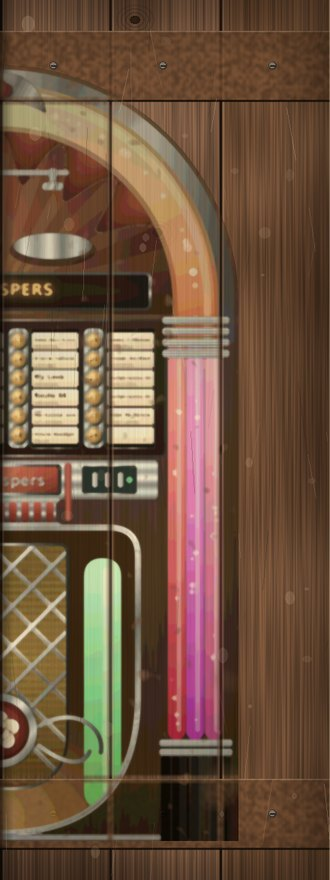
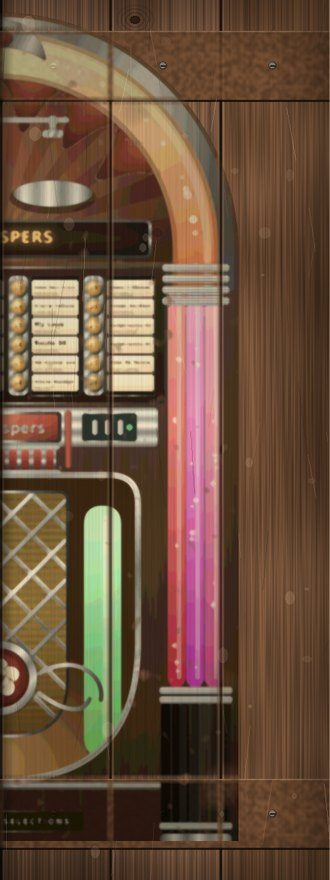
Country- ja leikkihuoneen ovet maalattuna
Kaksi uutta ovea Juntsan referenssikuvien mukaan. Jukeboksin maalaus
saatiin renderöimällä itse laite; näille kahdelle ei ole laitetta vaan
aihe, joten kuva piirretään SVG:nä (make_maalaukset.py) ja rasteroidaan
Chromiumilla läpinäkyvälle taustalle.

- country: kaksi peilikuvapaneelia, kummallakin oma kaari — vasemmalla
  hattu ja kitara, oikealla nauhamikrofoni. Säistynyt käsittely kuten
  fiftiesissä.
- leikkihuone: yksi sommitelma yli parin, sauma halkaisee sydämenmuotoisen
  mansikan. Ovi vie mansikkakyla.fi:hin, biisit eivät tule tänne.
- maalaukselle kaksi käsittelyä: säistynyt ja lakattu. Lastenhuoneen ovi on
  referenssissä hoidettu, joten kuluttava käsittely tekisi siitä surullisen
  — kirkas puu, ehjä maali, lakkaheijastus, ei näkyviä kiinnikkeitä.
- Tulossa-kyltti alas: keskellä se peitti juuri sen aiheen, jonka takia ovi
  maalattiin.
- korjattu: kitaran ääriviivan stroke-width oli scale(100):n sisällä, eli
  700 yksikköä leveä, ja peitti koko nurkkauksen

Claude-Session: https://claude.ai/code/session_0153AvkQwfLdBQDa3EC36AKN

diff --git a/index.html b/index.html
@@ -100,6 +100,8 @@ h1 span{color:var(--amber)}
 .oikea{right:-1px;transform-origin:right center;background-image:var(--oik)}
 .vasen::after{right:6px}
 .oikea::after{left:6px}
+/* leikkihuoneen ovessa on messinkikahvat jo maalattuna */
+.lapset .luukku::after{display:none}
 
 /* avautuminen */
 @media (hover:hover){
@@ -118,15 +120,20 @@ h1 span{color:var(--amber)}
   --oik:url("luukut/jukebox-oikea.jpg");
   --hehku:radial-gradient(130% 95% at 50% 100%,#ffb23a 0%,#c4371f 44%,#2a0e09 100%);
 }
+.country{
+  --vas:url("luukut/country-vasen.jpg");
+  --oik:url("luukut/country-oikea.jpg");
+  --hehku:radial-gradient(130% 95% at 50% 100%,#ffcb6a 0%,#a85a1e 44%,#2a1408 100%);
+}
 .yo{
   --vas:url("luukut/puu-vasen.jpg");
   --oik:url("luukut/puu-oikea.jpg");
   --hehku:radial-gradient(130% 95% at 50% 100%,#ffcf74 0%,#8a4a12 44%,#150b05 100%);
 }
 .lapset{
-  --vas:url("luukut/puu-vasen.jpg");
-  --oik:url("luukut/puu-oikea.jpg");
-  --hehku:radial-gradient(130% 95% at 50% 100%,#ffe9a8 0%,#e8536a 46%,#45101e 100%);
+  --vas:url("luukut/mansikkakyla-vasen.jpg");
+  --oik:url("luukut/mansikkakyla-oikea.jpg");
+  --hehku:radial-gradient(130% 95% at 50% 100%,#fff0c4 0%,#e8536a 46%,#45101e 100%);
 }
 .techno{
   --vas:url("luukut/puu-vasen.jpg");
@@ -135,11 +142,8 @@ h1 span{color:var(--amber)}
 }
 /* tyhjät luukut eivät saa näyttää identtisiltä vierekkäin: eri puulaadut,
    ei värisuodinta — vihertävä sävy saisi laudan näyttämään homeiselta */
-.lapset .vasen,.lapset .oikea{filter:saturate(.74) brightness(1.1)}   /* auringon haalistama */
 .techno .vasen,.techno .oikea{filter:saturate(.34) brightness(.74)}   /* harmaantunut */
 @media (hover:none){
-  .lapset .vasen{filter:saturate(.74) brightness(.86)}
-  .lapset .oikea{filter:saturate(.74) brightness(.97)}
   .techno .vasen{filter:saturate(.34) brightness(.58)}
   .techno .oikea{filter:saturate(.34) brightness(.65)}
 }
@@ -148,7 +152,9 @@ h1 span{color:var(--amber)}
 .huone.kiinni{cursor:default}
 .huone.kiinni .sisus{filter:saturate(.3) brightness(.42)}
 .kyltti{
-  position:absolute;left:50%;top:34%;z-index:3;   /* kahvojen yläpuolelle */
+  /* alas: maalatuissa ovissa kyltti peittäisi keskeltä juuri sen aiheen,
+     jonka takia ovi ylipäätään maalattiin */
+  position:absolute;left:50%;top:76%;z-index:3;
   transform:translate(-50%,-50%) rotate(-5deg);
   padding:7px 14px;border-radius:2px;
   background:#efe0c0;color:#4a2c18;
@@ -187,6 +193,15 @@ footer a{color:#8a7a66}
       <div class="luukut"><span class="luukku vasen"></span><span class="luukku oikea"></span></div>
     </a>
 
+    <div class="huone country kiinni">
+      <div class="sisus">
+        <b>Country</b>
+        <span>Kitara ja nauhamikki<br>soitin rakenteilla</span>
+      </div>
+      <div class="luukut"><span class="luukku vasen"></span><span class="luukku oikea"></span></div>
+      <span class="kyltti">Tulossa</span>
+    </div>
+
     <div class="huone yo kiinni">
       <div class="sisus">
         <b>Yö ja balladit</b>
@@ -196,14 +211,13 @@ footer a{color:#8a7a66}
       <span class="kyltti">Tulossa</span>
     </div>
 
-    <div class="huone lapset kiinni">
+    <a class="huone lapset" href="https://mansikkakyla.fi/" rel="noopener">
       <div class="sisus">
-        <b>Lasten huone</b>
-        <span>Mansikkakylän laulut<br>ja karaoke</span>
+        <b>Leikkihuone</b>
+        <span>Mansikkakylän laulut<br>ja sadut — mansikkakyla.fi</span>
       </div>
       <div class="luukut"><span class="luukku vasen"></span><span class="luukku oikea"></span></div>
-      <span class="kyltti">Tulossa</span>
-    </div>
+    </a>
 
     <div class="huone techno kiinni">
       <div class="sisus">
